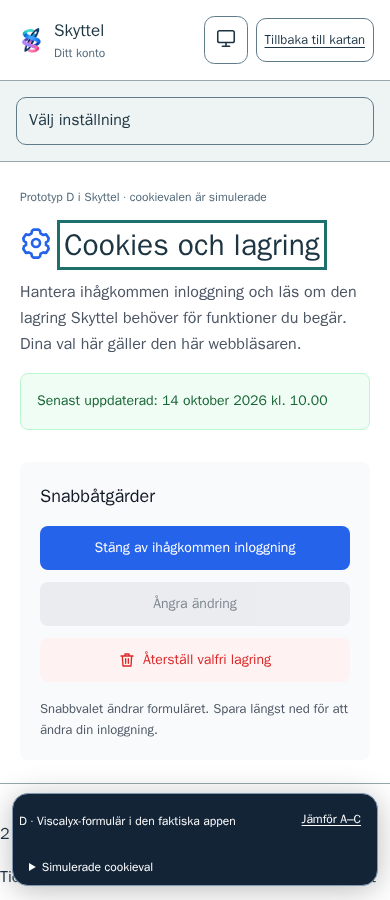
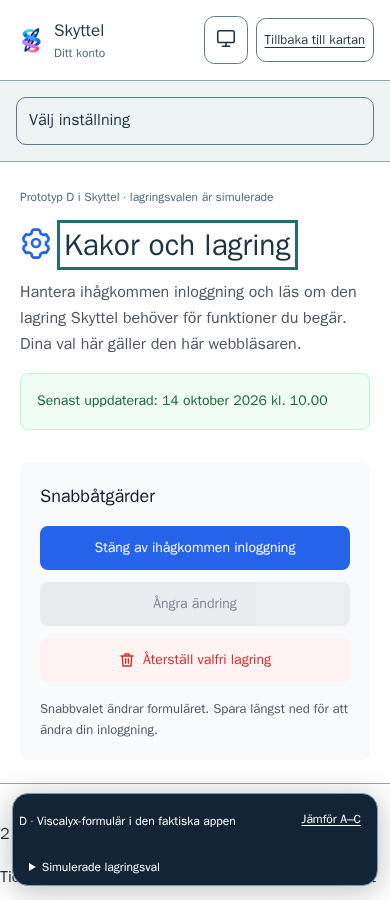
prototype: use Kakor och lagring in the Swedish interface

diff --git a/src/client/CookieFlows.prototype.tsx b/src/client/CookieFlows.prototype.tsx
@@ -22,14 +22,14 @@ const names = {
 const entries = [
   {
     name: 'better-auth.session_token',
-    kind: 'Cookie',
+    kind: 'Kaka',
     purpose:
       'Identifierar din inloggning hos Skyttel. Innehåller en signerad sessionsidentifierare.',
     time: 'Sessionscookie som standard. Med Kom ihåg mig: högst sju dygn från inloggningen, utan förlängning. Logga ut avslutar sessionen tidigare.',
   },
   {
     name: 'better-auth.state',
-    kind: 'Cookie',
+    kind: 'Kaka',
     purpose:
       'Skyddar inloggning och koppling av ett inloggningssätt. Innehåller en identifierare för inloggningsförsöket.',
     time: 'Högst fem minuter; tas bort när inloggningsförsöket godkänns.',
@@ -181,7 +181,7 @@ export function CookiePrototypeInApp({ signedIn }: { signedIn: boolean }) {
   }
   return (
     <section className="cookie-prototype cookie-in-app" data-theme={theme.theme}>
-      <p className="cookie-in-app-label">Prototyp D i Skyttel · cookievalen är simulerade</p>
+      <p className="cookie-in-app-label">Prototyp D i Skyttel · lagringsvalen är simulerade</p>
       <CookieSettingsReference
         heading={heading}
         entries={entries}
@@ -218,7 +218,7 @@ export function CookiePrototypeInApp({ signedIn }: { signedIn: boolean }) {
           </a>
         </div>
         <details>
-          <summary>Simulerade cookieval</summary>
+          <summary>Simulerade lagringsval</summary>
           <div className="cookie-scenario-controls">
             <label className="cookie-checkbox">
               <input
@@ -486,7 +486,7 @@ export default function CookiePrototype() {
   function login() {
     if (blocked || failure) {
       setError(
-        'Du kunde inte logga in. Skyttel behöver kunna lagra cookies för inloggningen. Kontrollera webbläsarens inställningar och försök igen.',
+        'Du kunde inte logga in. Skyttel behöver kunna lagra kakor för inloggningen. Kontrollera webbläsarens inställningar och försök igen.',
       );
       return;
     }
@@ -510,7 +510,7 @@ export default function CookiePrototype() {
           Din profil
         </button>
         <button type="button" onClick={() => go('cookies')}>
-          Cookies och lagring
+          Kakor och lagring
         </button>
       </nav>
       <button
@@ -588,7 +588,7 @@ export default function CookiePrototype() {
             ? signedIn
               ? 'Tillbaka till kartan'
               : 'Till startsidan'
-            : 'Cookies och lagring'}
+            : 'Kakor och lagring'}
         </button>
         {profileControl}
       </div>
@@ -648,7 +648,7 @@ export default function CookiePrototype() {
           <span className="cookie-badge">Vid begärd funktion</span>
         </div>
         <p>
-          Cookies behövs för att logga in säkert. Fliklagring hjälper dig att följa en import eller
+          Kakor behövs för att logga in säkert. Fliklagring hjälper dig att följa en import eller
           permanent radering som du har begärt.
         </p>
         <p className="muted">
@@ -761,7 +761,7 @@ export default function CookiePrototype() {
     <div className="cookie-document">
       <p className="eyebrow">Din webbläsare</p>
       <h1 ref={heading} tabIndex={-1}>
-        Cookies och lagring
+        Kakor och lagring
       </h1>
       <p className="settings-intro">
         Här ser du vad Skyttel lagrar och hanterar ihågkommen inloggning för den här webbläsaren.
@@ -796,7 +796,7 @@ export default function CookiePrototype() {
               <aside>
                 <h2>Den här webbläsaren</h2>
                 <p>{signedIn ? 'Alex Lind är inloggad.' : 'Du är inte inloggad.'}</p>
-                <p>Inga analys- eller marknadsföringscookies används.</p>
+                <p>Inga analys- eller marknadsföringskakor används.</p>
               </aside>
               <div>{choices}</div>
             </div>
@@ -824,11 +824,11 @@ export default function CookiePrototype() {
         <span>Inloggningssätt</span>
         <span>Assistentanslutningar</span>
         <button type="button" onClick={() => go('cookies')}>
-          Cookies och lagring
+          Kakor och lagring
         </button>
       </div>
       <p className="muted">
-        Cookievalet gäller den här webbläsarens session. Temavalet hör till ditt konto.
+        Lagringsvalet gäller den här webbläsarens session. Temavalet hör till ditt konto.
       </p>
     </section>
   );
@@ -841,7 +841,7 @@ export default function CookiePrototype() {
         <span>Inställningar</span>
         {profileControl}
         <button type="button" onClick={() => go('cookies')}>
-          Cookies och lagring
+          Kakor och lagring
         </button>
       </aside>
       <div>
@@ -900,7 +900,7 @@ export default function CookiePrototype() {
         {error}
       </p>
       <button type="button" className="cookie-text-button" onClick={() => go('cookies')}>
-        Cookies och lagring
+        Kakor och lagring
       </button>
     </section>
   );
@@ -961,7 +961,7 @@ export default function CookiePrototype() {
             <h2 id="cookie-banner-title">Så använder Skyttel lagring</h2>
             <p>
               Skyttel använder lagring för funktioner du begär, som inloggning. Kom ihåg mig är ett
-              separat val vid inloggning. Inga analys- eller marknadsföringscookies används.
+              separat val vid inloggning. Inga analys- eller marknadsföringskakor används.
             </p>
           </div>
           <div className="cookie-actions">
@@ -972,7 +972,7 @@ export default function CookiePrototype() {
                 go('cookies');
               }}
             >
-              Läs om cookies och lagring
+              Läs om kakor och lagring
             </button>
             <button
               type="button"
@@ -1017,7 +1017,7 @@ export default function CookiePrototype() {
                       aria-current={view === 'cookies' ? 'page' : undefined}
                       onClick={() => go('cookies')}
                     >
-                      Cookies och lagring
+                      Kakor och lagring
                     </button>
                   </section>
                 </details>
@@ -1039,7 +1039,7 @@ export default function CookiePrototype() {
                   aria-current={view === 'cookies' ? 'page' : undefined}
                   onClick={() => go('cookies')}
                 >
-                  Cookies och lagring
+                  Kakor och lagring
                 </button>
               </nav>
             )}
@@ -1049,7 +1049,7 @@ export default function CookiePrototype() {
       </main>
       <footer>
         <button type="button" className="cookie-text-button" onClick={() => go('cookies')}>
-          Cookies och lagring
+          Kakor och lagring
         </button>
       </footer>
       {profileOpen && profileMode === 'dialog' && (
@@ -1151,7 +1151,7 @@ export default function CookiePrototype() {
                   <option value="remembered">Inloggad · Kom ihåg mig</option>
                   <option value="normal">Inloggad · vanlig session</option>
                   <option value="first">Första besöket</option>
-                  <option value="anonymous">Cookiesidan utan konto</option>
+                  <option value="anonymous">Kakor och lagring utan konto</option>
                   <option value="blocked">Blockerad lagring vid inloggning</option>
                   <option value="recovery">Import med osäkert utfall</option>
                 </select>

diff --git a/src/client/CookieSettingsReference.prototype.tsx b/src/client/CookieSettingsReference.prototype.tsx
@@ -72,7 +72,7 @@ export function CookieSettingsReference({
         <div className="reference-title">
           <Icon kind="settings" />
           <h1 ref={heading} tabIndex={-1}>
-            Cookies och lagring
+            Kakor och lagring
           </h1>
         </div>
         <p>
@@ -132,9 +132,8 @@ export function CookieSettingsReference({
             <span className="reference-fixed-track" aria-hidden="true" />
           </div>
           <p>
-            Cookies behövs för säker inloggning. Fliklagring hjälper dig att följa samma import
-            eller permanenta radering som du har begärt. Den här gruppen går inte att slå av i
-            formuläret.
+            Kakor behövs för säker inloggning. Fliklagring hjälper dig att följa samma import eller
+            permanenta radering som du har begärt. Den här gruppen går inte att slå av i formuläret.
           </p>
           <details className="reference-details">
             <summary>Visa lagring ({entries.length})</summary>

diff --git a/src/client/App.tsx b/src/client/App.tsx
@@ -1372,7 +1372,7 @@ function Application() {
       <div className="settings-profile-links">
         <Link to="/login-methods">Inloggningssätt</Link>
         <Link to="/assistants">Assistentanslutningar</Link>
-        {import.meta.env.DEV && <Link to="/cookies?variant=D">Cookies och lagring</Link>}
+        {import.meta.env.DEV && <Link to="/cookies?variant=D">Kakor och lagring</Link>}
       </div>
       {logout}
     </>
@@ -1584,7 +1584,7 @@ function Application() {
       </main>
       <footer hidden={mapActive || Boolean(settingsPage)}>
         Det som hör ihop, samlat.
-        {import.meta.env.DEV && <Link to="/cookies?variant=D">Cookies och lagring</Link>}
+        {import.meta.env.DEV && <Link to="/cookies?variant=D">Kakor och lagring</Link>}
       </footer>
     </div>
   );

diff --git a/src/client/SettingsScreen.tsx b/src/client/SettingsScreen.tsx
@@ -146,7 +146,7 @@ export function SettingsScreen({
         { to: '/login-methods', title: 'Inloggningssätt', group: 'Ditt Skyttel' },
         { to: '/assistants', title: 'Assistentanslutningar', group: 'Ditt Skyttel' },
         ...(import.meta.env.DEV
-          ? [{ to: '/cookies?variant=D', title: 'Cookies och lagring', group: 'Ditt Skyttel' }]
+          ? [{ to: '/cookies?variant=D', title: 'Kakor och lagring', group: 'Ditt Skyttel' }]
           : []),
       ].filter((entry) => location.pathname !== '/profile' || entry.to === '/profile')
     : [

diff --git a/prototypes/cookie-flows/README.md b/prototypes/cookie-flows/README.md
@@ -5,7 +5,9 @@ Prototypen ger underlag till
 Den är till för att välja sidram, profilingång och formulärbeteende.
 Användaren bedömer cookieformulärets utseende i D som fungerande och
 begär att få prova det med appens riktiga profilverktyg och navigation.
-Det integrerade flödet är underlag för den fortsatta bedömningen.
+Användaren godkänner därefter D i den faktiska applikationen.
+Sidans svenska benämning är **Kakor och lagring**, i linje med
+viscalyx.se:s svenska texter som använder kakor och Kakinställningar.
 
 ## Öppna prototypen
 
@@ -17,7 +19,7 @@ npm run dev:cookie-prototype
 
 Öppna <http://localhost:5416/>. Det är den faktiska applikationen med
 ett isolerat testhushåll. Tryck på verktygsfältets befintliga profilikon,
-välj **Cookies och lagring** i **Din profil** och prova D.
+välj **Kakor och lagring** i **Din profil** och prova D.
 **Tillbaka till kartan** återgår till det riktiga kartverktyget.
 På mobil kan verktygsfältet behöva fällas ut först.
 
@@ -84,7 +86,7 @@ De fristående [detaljbilderna](D-details-1280.png) och
 
 ## Prova flödena
 
-På D öppnar **Simulerade cookieval** sparfel, osäker import och
+På D öppnar **Simulerade lagringsval** sparfel, osäker import och
 omstart av cookieexemplet. Sparande och återställning påverkar bara
 exemplet. Osparade ändringar skyddas av appens `FormLeaveProvider`,
 även vid byte via riktiga länkar och **Tillbaka till kartan**.
@@ -135,8 +137,9 @@ Välj scenario och stäng sedan verktygen för att bedöma produktvyn.
   stängas och samma innehåll finns på den permanenta sidan.
   Stängningen finns bara i minnet; den skapar ingen ny lagringsnyckel.
 
-Det integrerade flödet behöver fortfarande användarens bedömning.
-Det är inte en resolution av hela beslutsärendet.
+D är det valda underlaget för cookieformulärets utseende och vägen
+från appens befintliga profilverktyg. Produktionsimplementationen
+behöver serverunderlaget och den avslutande specifikationsgranskningen.
 
 ## Kontroller och begränsningar
 
